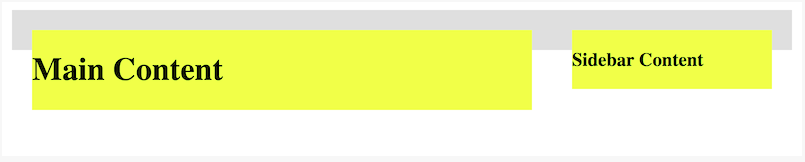
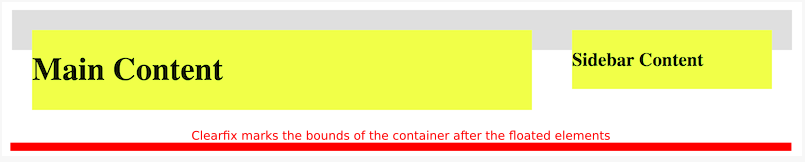
Add notes

Changed region(s): [[0.0, 0.8025, 0.9938, 0.9568]]

diff --git a/LS202_HTMLAndCSS/Lesson6_AdvancedLayout/practice_problems_floats_1/floats.html b/LS202_HTMLAndCSS/Lesson6_AdvancedLayout/practice_problems_floats_1/floats.html
@@ -1,0 +1,43 @@
+<!DOCTYPE html>
+<html lang="en">
+  <head>
+    <meta charset="utf-8">
+    <link rel="stylesheet" href="style.css">
+    <title>Practice Floats 1</title>
+  </head>
+  
+  <body>
+    <section>
+      <article>
+        <p>
+          Curabitur pharetra mollis est at tincidunt. Cras interdum faucibus orci, volutpat rutrum erat eleifend accumsan. Curabitur sodales turpis quis enim cursus, euismod fringilla libero bibendum. Praesent tempor, ligula sit amet tempor venenatis, nisl est auctor nisl, vitae rhoncus eros neque ac ligula. Donec rutrum, justo vel condimentum semper, nisi lacus suscipit sapien, eu mollis magna justo in orci. Phasellus ut ipsum non libero eleifend rutrum eget eget nulla. Quisque consectetur turpis lacus, vel congue metus auctor in.
+        </p>
+        <p>
+          Pellentesque habitant morbi tristique senectus et netus et malesuada fames ac turpis egestas. Vivamus quis accumsan mi, ac congue lacus. Praesent malesuada metus laoreet nibh dictum blandit.
+        </p>
+        <p>
+          Suspendisse potenti. Sed posuere viverra varius. Suspendisse sed sem vel dolor lacinia tincidunt vel vitae orci. Duis efficitur non neque sit amet malesuada. Morbi quam ante, porta a mattis a, ornare ut dui. Aenean eleifend, velit in bibendum commodo, dolor dolor imperdiet magna, eu fermentum mi nisl eget erat. Nulla maximus eu dui ut dictum. Etiam vitae hendrerit nisl. Aliquam quis dapibus elit, imperdiet volutpat tortor.
+        </p>
+        <p>
+          Integer non tristique dolor. Duis blandit venenatis turpis ut gravida. Maecenas pulvinar, orci eget egestas aliquet, nisl libero imperdiet eros, quis lobortis metus dui quis enim. Duis neque mi, tincidunt id vehicula in, pulvinar euismod libero. Curabitur quis commodo quam.
+        </p>
+        <p>
+          Curabitur eu metus vitae lectus efficitur congue. In rutrum aliquet cursus. Integer vitae metus vehicula, tincidunt leo in, posuere lectus. Maecenas scelerisque purus id mauris sollicitudin, a ultricies risus egestas. Quisque risus ligula, imperdiet sit amet iaculis quis, gravida at risus. Curabitur vitae quam tincidunt, sagittis metus vel, pellentesque ipsum. Sed tincidunt volutpat efficitur. 
+        </p>
+      </article>
+      <aside>
+        <p>
+          Integer cursus porttitor dolor, vel laoreet mi venenatis nec. Aenean et erat pellentesque, volutpat purus id, commodo metus. Aliquam ac tellus sit amet mi molestie vehicula. Phasellus sit amet leo ipsum.
+        </p>
+        <p>
+          Ut feugiat purus in convallis laoreet. Nam eleifend efficitur erat ut consectetur. Fusce eu volutpat urna, eget dignissim augue. Nulla et posuere ex. Phasellus elementum orci quis mauris ullamcorper, eget fringilla felis dictum. Sed tellus sem, venenatis sed imperdiet ut, placerat a odio. In sagittis porttitor enim non elementum. Etiam porta placerat urna eget convallis.
+        </p>
+      </aside>
+      <footer>
+        <p>
+          Lorem ipsum dolor sit amet, consectetur adipiscing elit. Donec a dui lorem. Vivamus pharetra vehicula mauris, quis facilisis arcu ultricies ut. Fusce in ornare nisi. Etiam non arcu laoreet, auctor est ut, mollis metus. Suspendisse diam metus, pellentesque sit amet dolor vehicula, lobortis feugiat nisl.
+        </p>
+      </footer>
+    </section>
+  </body>
+</html>

diff --git a/LS202_HTMLAndCSS/Lesson6_AdvancedLayout/practice_problems_floats_1/style.css b/LS202_HTMLAndCSS/Lesson6_AdvancedLayout/practice_problems_floats_1/style.css
@@ -1,0 +1,42 @@
+body {
+  background-color: lightgray;
+  font-size: 16px;
+  box-sizing: border-box;
+}
+
+body, section, article, aside {
+  margin: 0;
+  padding: 0;
+}
+  
+*, *::before, *::after {
+  box-sizing: inherit;
+}
+
+section {
+  max-width: 1000px;
+  margin: 0 auto;
+  background-color: lightgreen;
+  
+}
+
+article, aside, footer {
+  padding: 1rem;
+}
+
+article {
+  float: left;
+  background-color: lightyellow;
+  width: 70%;
+}
+
+aside {
+  background-color: lightblue;
+  float: none;
+  overflow: hidden;
+}
+
+footer {
+  background-color: lightpink;
+  clear: both;
+}

diff --git a/LS202_HTMLAndCSS/Lesson6_AdvancedLayout/Notes_Lesson6_AdvancedLayouts.md b/LS202_HTMLAndCSS/Lesson6_AdvancedLayout/Notes_Lesson6_AdvancedLayouts.md
@@ -21,8 +21,9 @@ Floats are an easy way to place elements side-by-side and collapse any in-betwee
 
 Floats are used to push element to the far left or right **in their immediate container** which define the maximum left/right boundaries the element can be pushed to.
 
-The space beside floated elements left and right are usable to other elements just as normal.
+The space beside floated elements left and right are usable to other elements just as normal and **floated elements only take up as much space as their content takes up, which is why a block level element may be less than full width**!
 
+**Note**: Floated elements have special behavior in terms of vertical margin collapsing.
 **Note**: Floats can be used to swap the position of elements:
 
 ```html
@@ -71,6 +72,12 @@ In order to get expected styling when using floats:
 - Keep the height of the floated objects the same 
 - Keep the float direction of the grouped elements (the ones in the same row!?) to a single direction, **either** left **or** right.
 
+
+
+**Floated elements allow text and inline elements to wrap around it**!
+
+
+
 **Note**: In general floats seems like something to be avoided and there are typically better options such as Flex, Grid and Frameworks.
 
 
@@ -112,36 +119,150 @@ The problem is that the nested and floated elements are **removed from the norma
 - Use a `clearfix`:
   A `clearfix` is a **technique** that forces a container to contain it's floated children by appending an empty block-level element **after** the floated elements, in other words, we **trick the container into considering the floated elements** by adding an **empty marker element** **as last container child** on which the **container can base it's calculations to contain all the floated children**.
 
+
+  **This marking clearfix element has the following characteristics**: 
+
+  1. It is empty
+  2. Must be block-level so that it takes up a complete line/row
+  3. Must clear the desired floated elements, so that it is positioned exactly under the lowest (desired) floated element
+  4. Must be the last i.e. **after** the floated elements in the hierarchy of elements contained in the parent container.
+
   
+
   **Here a more intuitive, visual illustration:**
 
   1. The `containing floats problem` without applying any fix  -  Container cannot consider the floated children for the final container dimensions.
      ![](./res/containing_floats_problem.png)
 
+  2. Add a clearfix  -  This is an **empty, block-level element** added as the **last container child** that **marks the boundary of the content** 
+     vertically.
+
+     ```css
+     .container::after { /* add an element to the .container element as the last child i.e. behind any floats */
+       content: ""; /* define the clearfix element content to be empty */
+       display: block; /* clearfix element must take up the whole line/row */
+       clear: both; /* position clearfix element just under the lowest, preceding floating element */
+     }
+     ```
 
 
-Intuitive notes as we go:
+     ![](./res/containing_floats_problem_with_clearfix_marker.png)
 
-- the CSS `clear` property defines if the cleared element must be moved **below** **previous** floating elements.
+  3. Container can base it's dimension calculations based on the clearfix:
+     ![](./res/float_fix_overflow.png)
 
-- both floated and non-floated elements can be `clear`ed from previous floats
 
-- floating elements have special behavior in terms of vertical margin collapsing etc, so look up for details
 
-- In general, use `clear: both;` unless others are specifically needed
+### How `clear` works
 
-- when an element is cleared from preceding elements using:
+---
 
-  - `clear: both;`  -  the cleared element is moved down until it's top edge is under the **lowest** floated element edge.
-    ![](./res/clear_both.png)
+The `clear` property moves **the cleared elements, that follow any floated element**, **just under** the lowest vertical boundary of the defined type of float. **Both non-floated and floated elements** **can be cleared** based on preceding floated element.
+![](./res/clear_left_righ_both_overview.png)
 
-  - `clear: left;`  -  the cleared element is moved down the same way until it is under the **left** floated elements.
-    ![](./res/clear_left.png)
 
-  - `clear: right;` does the same as left but for right floated elements.
-    **Note**: In this case clearing right and both is the same.
+**Note**: Always use `clear: both;` unless there is a good reason to choose a specific one!
 
-    ![](./res/clear_right.png)
+
+**Intuitive example illustrations clearing elements from preceding floating elements:**
+
+- When an element is cleared from preceding floats using `clear: both;`
+  the cleared element is moved down until it's top edge is under the **lowest** floated element edge, be that `left` or `right`  floats.
+  ![](./res/clear_both.png)
+
+- When an element is cleared from preceding floats using `clear: left;`
+  the cleared element is moved down the same way until it is just under the `left` floated elements.
+  ![](./res/clear_left.png)
+
+- When an element is cleared from preceding floats using `clear: right;`
+  the cleared element is moved down the same way until it is just under the `right` floated elements.
+  ![](./res/clear_right.png)
+
+  **Note**: In this case clearing `right` and `both` is the same.
+
+
+
+### Problems that occur when floating and clearing
+
+---
+
+Always remember that:
+
+- floated elements take up as much space as they need to display the content which is the case of a long line of text can be a very large width!
+
+  If the floated element is too large for the rest of the row/line space, it wraps to the lext line/space.
+
+- when using percentage dimensions always think of the box-model and the present margins and padding of the elements
+
+
+
+### How `Offset` properties interact with the `position` property
+
+---
+
+The **offset** properties `left`, `right`, `bottom` and `top`  work together with `position` to determine:
+
+- **which direction** you want to push the element towards
+- **how far in that direction** you want to push the element
+
+Each of these `4` offsets **measure offset inward from the border in question** **when the offset is positive**. That is:
+
+- `bottom: 60px;` means 60 pixels **upwards** from the **bottom region border**
+- `left: 20px;` means 20 pixels **to the right** form the **left region border**
+- `left: -20px;` means 20 pixels **to the left** from the **left region border** because **negative values flip the direction**
+
+**Note**: Negative offset values cause the element to be pushed **outwards from the border in question**.
+
+![](./res/offset_direction.png)
+
+
+
+
+
+### The `position` property
+
+---
+
+The `position` property defines **how** the browser should position the selected element. There are different types:
+
+- `position: static`
+
+  - This is the default positioning
+  - These elements **are part of the page flow**
+  - Appear in the order they do in the markup
+  - These **static elements** are **not affected by offset properties**
+
+  **Note**: Elements that use `flow`, `grid`, `flex`, `absolute` and/or `fixed` positioning **are removed from the page flow**.
+
+- `position: relative`
+
+  Relative positioning **does not remove the elements from the document flow** but rather **only renders it at an offset**.
+
+  ![](./res/static_vs_relative_flow.png)
+
+  
+  Think about it this way, at every point in time a relative positioned element has **two things going on**:
+
+  1. the element is still in the flow **exactly as if it were static** and affects the flow exactly as static elements
+  2. the element is **merely rendered at an offset to it's static position** where **this offset element does not affect the flow**!
+
+  
+
+  
+
+  - **intuitive notes here first to get a feel for this madness**
+    - relative positioning keeps the elements in the flow just as normal i.e as if `position: static` were used
+    - the browser renders the elements at their static position + offset
+    - the offsets are applied on a rendering level and the element exists in two parallel states we could say:
+      - the one we do not see, which is included in the document flow, equivalent to the `static` version?
+        This still affects the elements around just as usual.
+      - the one rendered by the browser, which does not affect the document flow?
+    - typically only a single side per axis should have offset i.e. left **or** right **not both**, this goes for the horizontal and vertical axis
+      as they have different precedence for cases where left+right is defined:
+      For top and bottom, **top always has precedence**.
+    - relative elements are not
+
+
 
 
 
@@ -152,16 +273,6 @@ Intuitive notes as we go:
 **Is the following correct?**
 
 >  **Note**: Absolute and Fixed elements typically **do not affect the dimensions of their parents**.
-
-
-
-### Valuable CSS
-
----
-
-- float, it's ...
-- `overflow`  -  defines how an elements overflow i.e. the **content that does not fit into the elements content region**  is treated
-- clear, it's types and intuition
 
 
 
@@ -195,3 +306,6 @@ Intuitive notes as we go:
 
 - What is a `block formatting context` at awareness level?
   The important thing to understand is that the `block formatting context` contains **everything** inside the element to which it applies, **including floated elements**!
+
+- Are floated; grid, flex, absolute and relative elements alway removed from the page flow?
+  Are statically positioned elements always part of the page flow?
